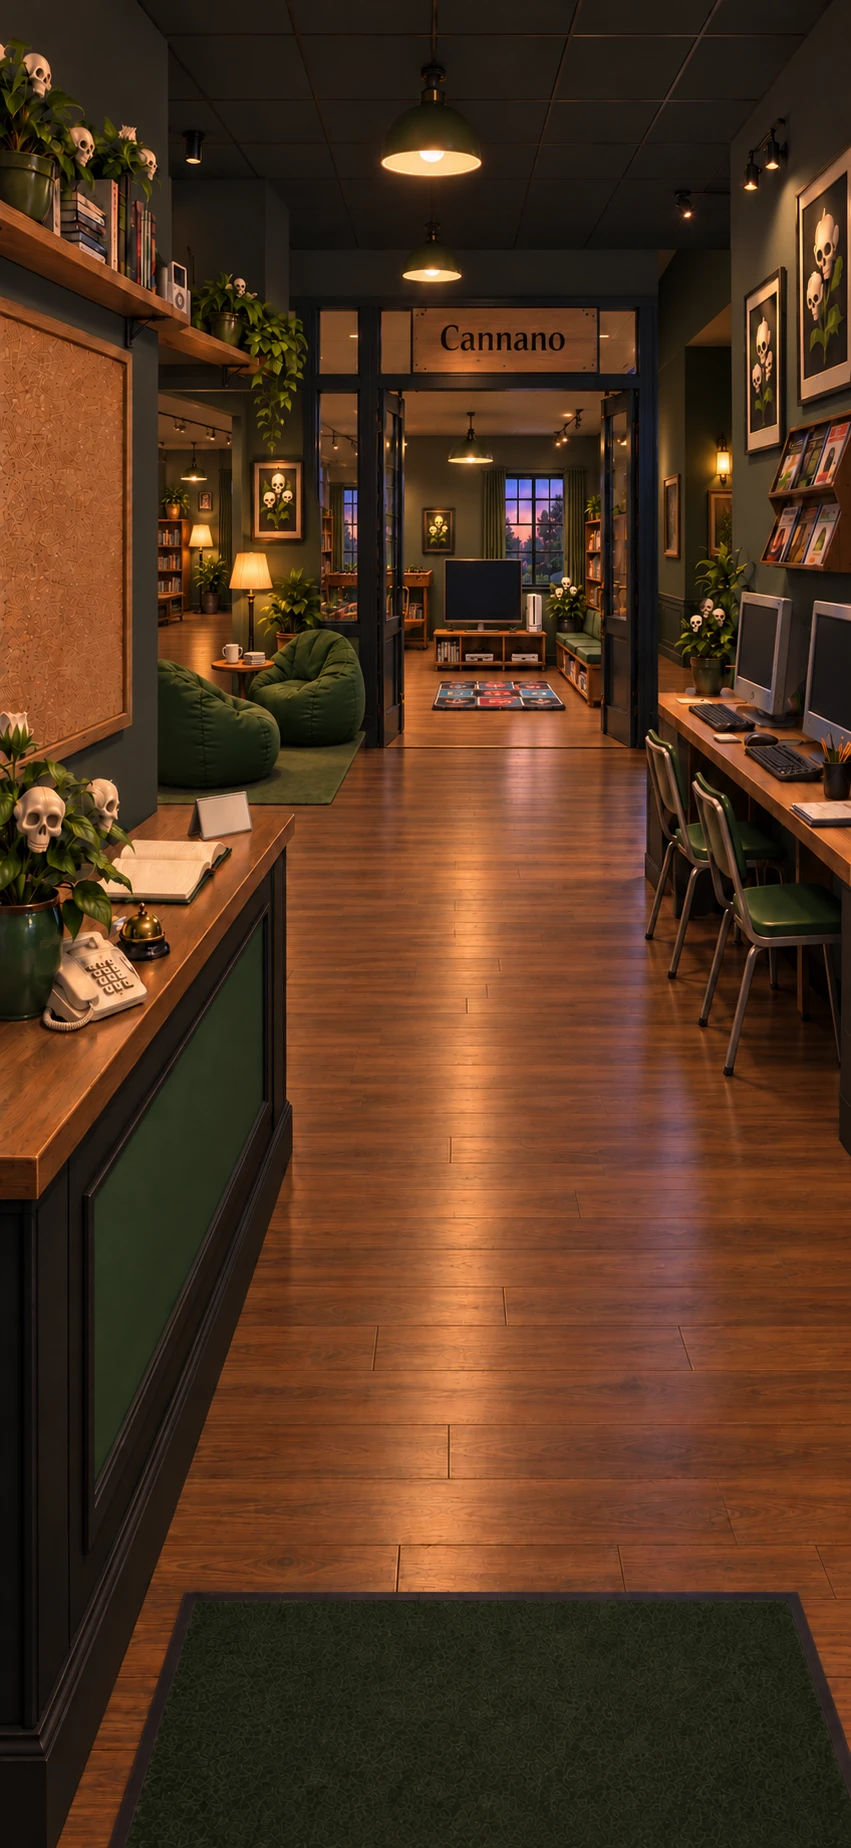
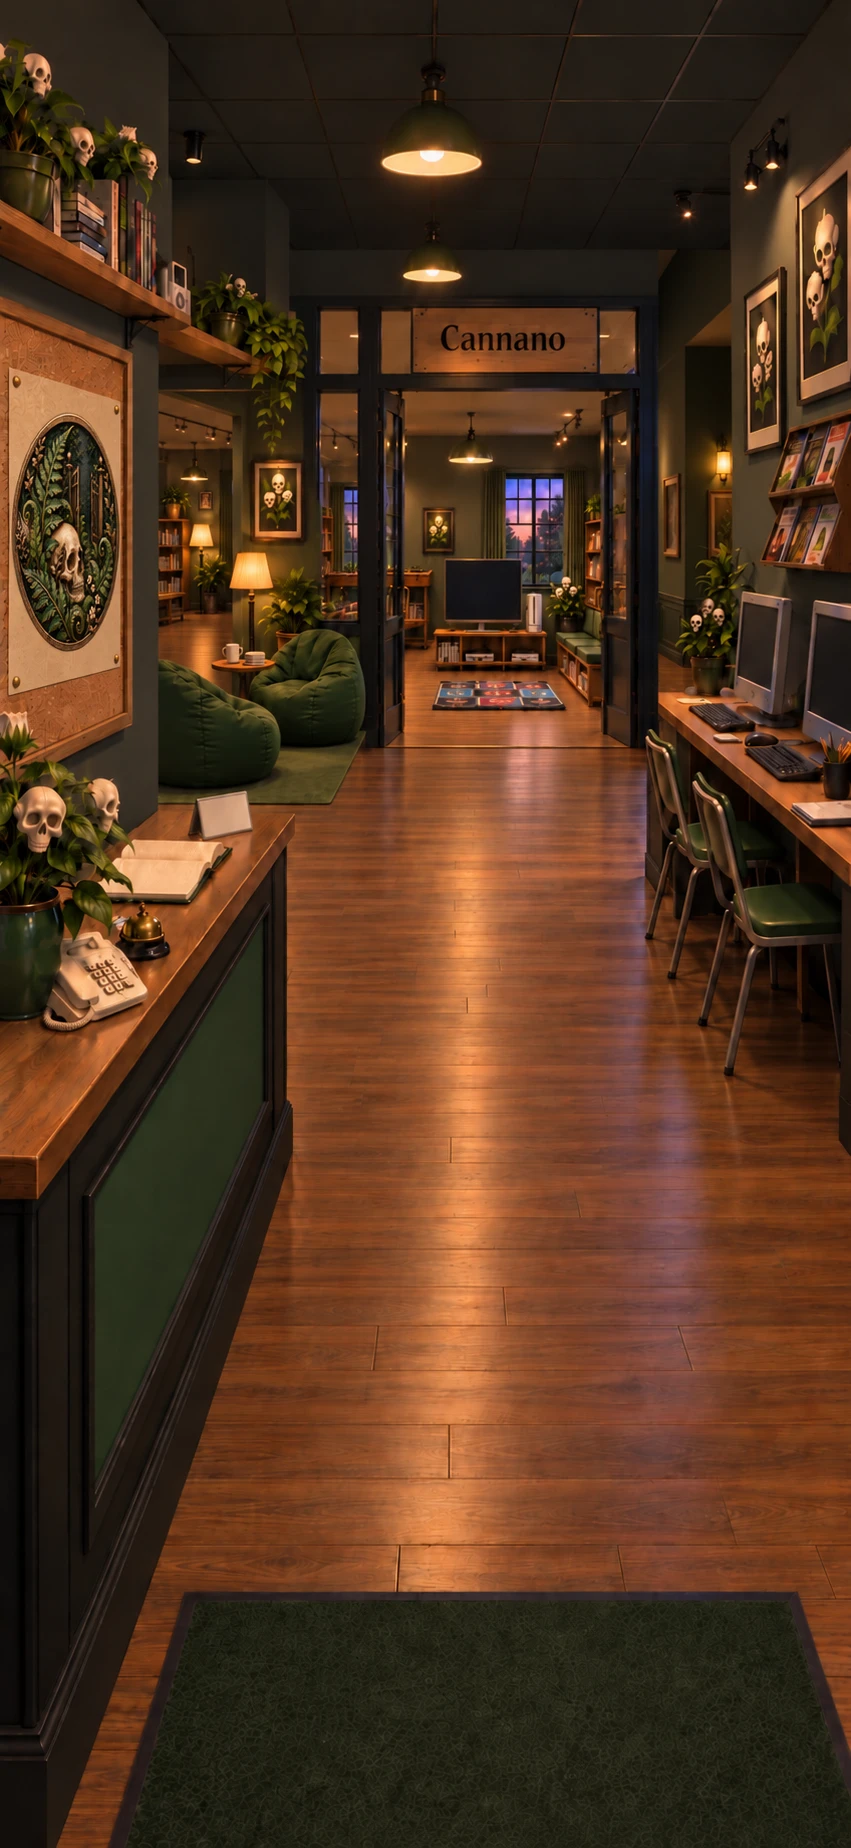
Cannano preview: emblem glow on the framed crest
Updated 2008-12 Cannano art with the crest framed on the corkboard
(top-left); CTA glow moved from the counter to the emblem (cn_counter →
cn_emblem). Rough box, re-tune.

Claude-Session: https://claude.ai/code/session_01KKhQMghLUspva6Yzs31jQ3

diff --git a/src/data/hubScene.ts b/src/data/hubScene.ts
@@ -626,8 +626,9 @@ export const HUB_NODES: Record<string, HubNode> = {
     fit: "screen",
     back: "reception",
     hotspots: [
-      // New 2008–2012 art — counter is foreground-left now; rough box, re-tune.
-      { id: "cn_counter", caption: "Get Cannano", kind: "glow", tint: "purple", interaction: "destination", haptic: "medium", glowScale: 0.5, glowMax: 0.4, x: 0.0, y: 0.42, w: 0.3, h: 0.16, action: { kind: "route", route: "/ecosystem" } },
+      // 2008-12 media-club art; Cannano crest framed on the corkboard (top-
+      // left). Glow over it → get the app. Rough box — re-tune.
+      { id: "cn_emblem", caption: "Get Cannano", kind: "glow", tint: "purple", interaction: "destination", haptic: "medium", glowScale: 0.5, glowMax: 0.4, x: 0.0, y: 0.18, w: 0.17, h: 0.16, action: { kind: "route", route: "/ecosystem" } },
     ],
   },
 
